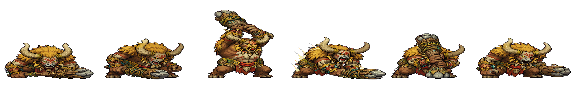
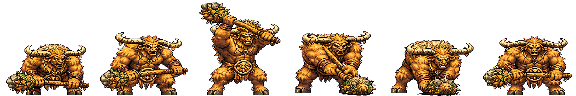
feat: GPT 재작업 대기/공격 시트 9개 통합 · 크기 보정 코드 제거
GPT가 대기/공격 시트 9종을 걷기 시트 기준으로 다시 그려 보냈다. 통합 전 검사에서
셀 크기·프레임 수·발 위치·캐릭터 크기·배경 투명도 모두 규격을 만족했고,
13개 시트를 마젠타 배경에 올려 눈으로도 확인했다.

  대기 캐릭터 크기(걷기 대비): imp 1.02 / shooter 0.99 / brute 1.00 / boss 1.16
  이전에는 0.40~0.52 였다 — 동작이 바뀌면 몬스터가 2배 넘게 커지던 원인.
  모든 프레임의 발이 셀 아래변에 닿아 공중에 뜨지 않는다.
  fire_goblin_cast_4f 에 박혀 있던 풀밭도 제거됐다.

크기 보정 코드 제거
  아트가 어긋나 있던 동안 EnemySprite 에서 시트별 실측값(캐릭터 높이·발 y)으로
  스케일과 앵커를 보정하고 있었다. 아트가 정상화된 지금은 이 보정이 오히려
  해롭다 — 공격 시트는 웅크린 자세라 캐릭터 높이가 걷기의 0.6~0.9 인데,
  높이를 기준으로 보정하면 그만큼 과하게 확대된다(자세를 크기 오류로 오판).
  단순한 셀 기준 렌더링(scale = SCALE, center = 바닥)으로 되돌렸다.
  사망 연출의 centerY 배선도 함께 정리했다.

  검증: 네 몬스터를 한 줄로 세워 위치를 고정한 뒤 이동/공격 상태를 같은
  프레임에서 캡처해 대조 — 크기 튐 없음, 공격 자세만 낮아짐(의도된 애니메이션).

tools/measure_sprites.py 를 표 생성기에서 규격 검사기로 전환
  ART 표가 없어졌으니 생성할 것도 없다. 대신 새 시트를 받았을 때 통합 전에
  돌려 규격 위반(셀 배수 / 프레임 수 / 발 뜸 / 대기-걷기 크기 불일치)을
  잡도록 바꿨다. 위반이 있으면 종료코드 1.
  발 위치 허용오차 2px — tau_chief_slam 의 1px 차이는 눈에 보이지 않는다.

Claude-Session: https://claude.ai/code/session_01JQrqj8VwghESuWCrw9YgFX

diff --git a/src/entities/EnemySprite.ts b/src/entities/EnemySprite.ts
@@ -5,80 +5,30 @@ import { ASSET, cloneTex } from '../rendering/assets'
 
 export type EnemyAnimState = 'idle' | 'walk' | 'attack'
 
-/** 시트 실측값 — tools/measure_sprites.py 로 뽑는다 */
-interface SheetMetrics {
-  /** 정사각 셀 한 변(px) */
-  cell: number
-  /** 가로 스트립 프레임 수 */
-  frames: number
-  /** 셀 안 캐릭터 높이(px, 프레임별 중앙값) */
-  bodyH: number
-  /** 셀 안 발 y좌표(px, 프레임별 중앙값) */
-  feetY: number
-}
-
 /**
- * 같은 몬스터인데도 시트마다 캐릭터가 셀 안에서 다른 크기·위치로 그려져 있다.
- * 걷기 시트는 셀을 꽉 채우고 발이 바닥에 닿지만, 대기/공격 시트는 셀 중앙에
- * 40~50% 크기로 떠 있다. 셀 기준으로 그리면 동작이 바뀔 때마다 몬스터가
- * 2배 이상 커졌다 작아지고, 공중에 뜬 채로 보인다.
- *
- * 아트를 리스케일하면 원본 픽셀 디테일이 뭉개지므로 렌더 단계에서 보정한다.
- * 시트를 교체하면 tools/measure_sprites.py 를 다시 돌려 이 표를 갱신할 것.
+ * 각 애니메이션의 프레임 수 (시트 = 가로 스트립, 정사각 셀)
+ * 시트 규격은 tools/measure_sprites.py 로 검사한다 — 셀 크기·프레임 수가 맞고
+ * 모든 프레임의 발이 셀 아래변에 닿아 있어야 이 단순한 렌더링이 성립한다.
  */
-const ART: Record<EnemyKind, Record<EnemyAnimState, SheetMetrics>> = {
-  imp: {
-    idle: { cell: 48, frames: 4, bodyH: 19, feetY: 32 },
-    walk: { cell: 48, frames: 6, bodyH: 47, feetY: 47 },
-    attack: { cell: 48, frames: 4, bodyH: 20, feetY: 33 },
-  },
-  brute: {
-    idle: { cell: 64, frames: 4, bodyH: 29, feetY: 48 },
-    walk: { cell: 64, frames: 6, bodyH: 62, feetY: 63 },
-    attack: { cell: 64, frames: 4, bodyH: 27, feetY: 50 },
-  },
-  shooter: {
-    idle: { cell: 48, frames: 4, bodyH: 19, feetY: 32 },
-    walk: { cell: 48, frames: 6, bodyH: 48, feetY: 47 },
-    attack: { cell: 48, frames: 4, bodyH: 20, feetY: 33 },
-  },
-  boss: {
-    idle: { cell: 96, frames: 4, bodyH: 42, feetY: 70 },
-    walk: { cell: 96, frames: 6, bodyH: 81, feetY: 95 },
-    attack: { cell: 96, frames: 6, bodyH: 42, feetY: 78 },
-  },
+const FRAMES: Record<EnemyKind, Record<EnemyAnimState, number>> = {
+  imp: { idle: 4, walk: 6, attack: 4 },
+  brute: { idle: 4, walk: 6, attack: 4 },
+  shooter: { idle: 4, walk: 6, attack: 4 },
+  boss: { idle: 4, walk: 6, attack: 6 },
 }
-
 const FPS: Record<EnemyAnimState, number> = { idle: 5, walk: 10, attack: 12 }
 
-/** 캐릭터(발~머리) 월드 높이 — 셀 높이가 아니라 실제 몬스터 크기 */
+/** 셀(=캐릭터) 월드 높이 */
 const SCALE: Record<EnemyKind, number> = { imp: 2.2, brute: 3.5, shooter: 2.4, boss: 5.4 }
-
-/** 시트를 셀 기준으로 그릴 때의 스프라이트 크기 (캐릭터가 SCALE 높이가 되도록 역산) */
-const spriteH = (kind: EnemyKind, s: EnemyAnimState) =>
-  SCALE[kind] * (ART[kind][s].cell / ART[kind][s].bodyH)
-
-/**
- * 스프라이트 앵커(center)를 캐릭터의 발 높이에 둔다 → 앵커를 지면에 놓으면 발이 지면에 선다.
- *
- * 월드 y로 내려서 보정하면 안 된다: 카메라가 기울어져 있어 월드 y 이동은 화면에서
- * 단축되는데, 보정해야 할 '셀 안 여백'은 스프라이트 공간(단축 없음)에 있다.
- * 두 값의 스케일이 달라 아무리 맞춰도 발이 지면에서 뜬다. center 는 스프라이트
- * 공간이라 정확히 상쇄된다.
- */
-const footCenterY = (kind: EnemyKind, s: EnemyAnimState) => {
-  const m = ART[kind][s]
-  return (m.cell - 1 - m.feetY) / m.cell
-}
 
 /**
  * 사망 연출용 스프라이트 재료 — 대기 시트의 첫 프레임 기준.
  * (시트 전체를 그대로 넘기면 프레임 4장이 가로로 눌려 나온다)
  */
-export function enemyDeathArt(kind: EnemyKind): { map: THREE.Texture; scale: number; centerY: number } {
+export function enemyDeathArt(kind: EnemyKind): { map: THREE.Texture; scale: number } {
   const map = cloneTex(ASSET.monsters[kind].idle)
-  map.repeat.set(1 / ART[kind].idle.frames, 1)
-  return { map, scale: spriteH(kind, 'idle'), centerY: footCenterY(kind, 'idle') }
+  map.repeat.set(1 / FRAMES[kind].idle, 1)
+  return { map, scale: SCALE[kind] }
 }
 export { SCALE as ENEMY_SCALE }
 
@@ -107,16 +57,17 @@ export class EnemySprite {
       attack: cloneTex(src.attack),
     }
     for (const k of ['idle', 'walk', 'attack'] as EnemyAnimState[]) {
-      this.texes[k].repeat.set(1 / ART[kind][k].frames, 1)
+      this.texes[k].repeat.set(1 / FRAMES[kind][k], 1)
     }
 
     this.mat = new THREE.SpriteMaterial({ map: this.texes.idle, transparent: true, depthWrite: false })
     this.sprite = new THREE.Sprite(this.mat)
-    this.group.add(this.sprite)
-    this.applyMetrics()
-
-    // 발밑 그림자 — 캐릭터 실제 크기 기준
+    this.sprite.center.set(0.5, 0) // 발이 셀 아래변에 있으므로 앵커도 바닥
     const sc = SCALE[kind]
+    this.sprite.scale.set(sc, sc, 1)
+    this.group.add(this.sprite)
+
+    // 발밑 그림자
     const shadowMat = noOutline(
       new THREE.MeshBasicMaterial({ color: 0x000000, transparent: true, opacity: 0.3, depthWrite: false }),
     )
@@ -125,13 +76,6 @@ export class EnemySprite {
     shadow.position.y = 0.02
     shadow.scale.set(1, 0.55, 1)
     this.group.add(shadow)
-  }
-
-  /** 현재 상태 시트에 맞춰 크기와 발 기준점을 잡는다 (시트별 캐릭터 크기·여백 차이 보정) */
-  private applyMetrics() {
-    const h = spriteH(this.kind, this.state)
-    this.sprite.scale.set(h, h, 1)
-    this.sprite.center.set(0.5, footCenterY(this.kind, this.state))
   }
 
   /** 공격 모션 재생 (지속시간 동안 attack 상태 유지) */
@@ -152,11 +96,10 @@ export class EnemySprite {
       this.time = 0
       this.mat.map = this.texes[next]
       this.mat.needsUpdate = true
-      this.applyMetrics()
     }
     this.time += dt
 
-    const n = ART[this.kind][this.state].frames
+    const n = FRAMES[this.kind][this.state]
     const idx = Math.floor(this.time * FPS[this.state]) % n
     const fw = 1 / n
     const map = this.mat.map!

diff --git a/src/systems/Effects.ts b/src/systems/Effects.ts
@@ -39,14 +39,11 @@ export class Effects {
     this.layer = uiLayer
   }
 
-  /**
-   * 적 사망 산화: 흰 섬광 → 주황 틴트로 주저앉으며 소멸
-   * @param centerY 시트 안 캐릭터의 발 높이(스프라이트 공간 0..1) — 앵커를 발에 둔다
-   */
-  deathDissolve(pos: THREE.Vector3, map: THREE.Texture, scale: number, centerY = 0) {
+  /** 적 사망 산화: 흰 섬광 → 주황 틴트로 주저앉으며 소멸 */
+  deathDissolve(pos: THREE.Vector3, map: THREE.Texture, scale: number) {
     const mat = new THREE.SpriteMaterial({ map, transparent: true, depthWrite: false })
     const sp = new THREE.Sprite(mat)
-    sp.center.set(0.5, centerY)
+    sp.center.set(0.5, 0)
     sp.scale.set(scale, scale, 1)
     sp.position.set(pos.x, 0.02, pos.z)
     this.scene.add(sp)

diff --git a/src/core/Game.ts b/src/core/Game.ts
@@ -887,7 +887,7 @@ export class Game {
     this.scene.remove(e.group)
     this.kills++
     const death = enemyDeathArt(e.kind)
-    this.effects.deathDissolve(e.pos, death.map, death.scale, death.centerY)
+    this.effects.deathDissolve(e.pos, death.map, death.scale)
     this.effects.playFx('death', e.pos.x, 1.0, e.pos.z, ENEMY_SCALE[e.kind] * 1.3)
 
     // 경험치 + 골드 드랍

diff --git a/tools/measure_sprites.py b/tools/measure_sprites.py
@@ -1,19 +1,20 @@
 #!/usr/bin/env python3
-"""몬스터 시트의 실측값을 뽑아 EnemySprite.ts 의 ART 표를 생성한다.
+"""몬스터 시트 규격 검사기.
 
-왜 필요한가:
-  같은 몬스터의 대기/걷기/공격 시트가 셀 안에서 서로 다른 크기로 그려져 왔다.
-  (걷기는 셀을 꽉 채우고 발이 바닥에 닿는데, 대기/공격은 셀 중앙에 작게 떠 있음)
-  스프라이트를 셀 기준으로 그리면 동작이 바뀔 때마다 몬스터 크기가 튀고 공중에 뜬다.
+EnemySprite.ts 의 렌더링은 시트가 아래 규격을 지킨다는 전제로 단순하게 짜여 있다.
+새 시트를 받으면 통합 전에 이걸 먼저 돌려 규격 위반을 잡는다.
 
-  아트를 리스케일하면 원본 디테일이 뭉개지므로, 대신 시트별 실측값
-  (셀 안 캐릭터 높이 / 발 y좌표) 을 코드에 넘겨 렌더 단계에서 보정한다.
+  1. 가로 스트립, 정사각 셀 (가로 = 셀 x 프레임수)
+  2. 셀 크기·프레임 수가 EnemySprite.ts 의 FRAMES 와 일치
+  3. 모든 프레임의 발(=최하단 불투명 픽셀)이 셀 아래변에 닿음
+     -> 안 지키면 몬스터가 공중에 뜬다
+  4. 같은 몬스터의 대기/걷기 캐릭터 높이가 비슷함 (비율 0.85~1.2)
+     -> 안 지키면 동작이 바뀔 때 몬스터 크기가 튄다
+     (공격은 웅크리는 자세가 많아 낮게 나오는 것이 정상이므로 경고만)
 
 사용법:
-  python3 tools/measure_sprites.py          # 표 출력
-  python3 tools/measure_sprites.py --check  # 현재 TS 표와 불일치 시 종료코드 1
-
-새 시트를 받으면 이걸 다시 돌려 EnemySprite.ts 의 ART 를 갱신하면 된다.
+  python3 tools/measure_sprites.py          # 검사 결과 출력
+  종료코드 0 = 통과, 1 = 위반 있음
 """
 import sys
 from statistics import median
@@ -21,28 +22,37 @@ from PIL import Image
 
 ROOT = 'public/assets/stage1'
 
-# kind -> (디렉터리, idle, walk, attack)
+# kind -> (디렉터리, [(상태, 파일명, 기대 프레임수)])
 MON = {
-    'imp':     ('stage1_goblins', 'melee_goblin_idle_4f', 'melee_goblin_walk_6f', 'melee_goblin_club_attack_4f'),
-    'brute':   ('stage1_tau',     'tau_warrior_idle_4f',  'tau_warrior_walk_6f',  'tau_warrior_slam_4f'),
-    'shooter': ('stage1_goblins', 'fire_goblin_idle_4f',  'fire_goblin_walk_6f',  'fire_goblin_cast_4f'),
-    'boss':    ('stage1_tau',     'tau_chief_idle_4f',    'tau_chief_move_6f',    'tau_chief_slam_6f'),
+    'imp': ('stage1_goblins', [
+        ('idle', 'melee_goblin_idle_4f', 4),
+        ('walk', 'melee_goblin_walk_6f', 6),
+        ('attack', 'melee_goblin_club_attack_4f', 4),
+    ]),
+    'shooter': ('stage1_goblins', [
+        ('idle', 'fire_goblin_idle_4f', 4),
+        ('walk', 'fire_goblin_walk_6f', 6),
+        ('attack', 'fire_goblin_cast_4f', 4),
+    ]),
+    'brute': ('stage1_tau', [
+        ('idle', 'tau_warrior_idle_4f', 4),
+        ('walk', 'tau_warrior_walk_6f', 6),
+        ('attack', 'tau_warrior_slam_4f', 4),
+    ]),
+    'boss': ('stage1_tau', [
+        ('idle', 'tau_chief_idle_4f', 4),
+        ('walk', 'tau_chief_move_6f', 6),
+        ('attack', 'tau_chief_slam_6f', 6),
+    ]),
 }
 
 
 def measure(path):
-    """(셀 크기, 프레임 수, 대표 캐릭터 높이, 대표 발 y) — 프레임별 중앙값 기준.
-
-    중앙값을 쓰는 이유: 웅크림·도약처럼 프레임마다 키가 달라지는 것은 애니메이션
-    자체이므로 유지해야 한다. 시트 전체에 단일 보정값만 적용한다.
-    """
     im = Image.open(path).convert('RGBA')
     w, h = im.size
-    cell = h                      # 정사각 셀 전제 (가로 스트립)
-    if w % cell:
-        raise SystemExit(f'{path}: 가로 {w} 가 셀 {cell} 의 배수가 아니다')
-    n = w // cell
+    cell = h
     px = im.load()
+    n = w // cell if cell else 0
     heights, feet = [], []
     for i in range(n):
         x0 = i * cell
@@ -55,30 +65,56 @@ def measure(path):
         if top is not None:
             heights.append(bot - top + 1)
             feet.append(bot)
-    return cell, n, int(median(heights)), int(median(feet))
+    return dict(w=w, h=h, cell=cell, frames=n, heights=heights, feet=feet)
 
 
-rows = []
-for kind, (d, idle, walk, atk) in MON.items():
-    entry = {}
-    for state, name in (('idle', idle), ('walk', walk), ('attack', atk)):
-        cell, n, bh, fy = measure(f'{ROOT}/{d}/{name}.png')
-        entry[state] = dict(cell=cell, frames=n, bodyH=bh, feetY=fy)
-    rows.append((kind, entry))
+FEET_TOL = 2  # 발 위치 허용오차(px) — 1~2px 차이는 눈에 보이지 않는다
 
-print('// tools/measure_sprites.py 로 생성 — 시트를 교체하면 다시 돌려 갱신할 것')
-print('const ART: Record<EnemyKind, Record<EnemyAnimState, SheetMetrics>> = {')
-for kind, e in rows:
-    print(f'  {kind}: {{')
-    for state in ('idle', 'walk', 'attack'):
-        m = e[state]
-        print(f'    {state}: {{ cell: {m["cell"]}, frames: {m["frames"]}, '
-              f'bodyH: {m["bodyH"]}, feetY: {m["feetY"]} }},')
-    print('  },')
-print('}')
+errors, warnings = [], []
+print(f'{"kind":9} {"state":7} {"size":>10} {"cell":>5} {"frames":>7} {"bodyH(med)":>11} {"ratio":>6}')
+print('-' * 64)
 
-print('\n// 참고: 상태 간 캐릭터 높이 비율 (1.0에서 멀면 크기가 튄다)', file=sys.stderr)
-for kind, e in rows:
-    ref = e['walk']['bodyH'] / e['walk']['cell']
-    ratios = {s: round((e[s]['bodyH'] / e[s]['cell']) / ref, 2) for s in ('idle', 'walk', 'attack')}
-    print(f'//   {kind:8} {ratios}', file=sys.stderr)
+for kind, (d, sheets) in MON.items():
+    # 걷기를 기준으로 삼으므로 먼저 전부 측정한 뒤 비교한다
+    got = {}
+    for state, name, want_frames in sheets:
+        try:
+            got[state] = (name, want_frames, measure(f'{ROOT}/{d}/{name}.png'))
+        except FileNotFoundError:
+            errors.append(f'{name}: 파일 없음')
+
+    if 'walk' not in got:
+        continue
+    wm = got['walk'][2]
+    ref = (median(wm['heights']) / wm['cell']) if wm['heights'] else 0
+
+    for state, name, want_frames in sheets:
+        if state not in got:
+            continue
+        _, want_frames, m = got[state]
+        bh = median(m['heights']) if m['heights'] else 0
+        ratio = (bh / m['cell']) / ref if ref else float('nan')
+        size = '{}x{}'.format(m['w'], m['h'])
+        print(f'{kind:9} {state:7} {size:>10} {m["cell"]:>5} '
+              f'{m["frames"]:>7} {bh:>11.0f} {ratio:>6.2f}')
+
+        if m['w'] % m['cell']:
+            errors.append(f'{name}: 가로 {m["w"]} 가 셀 {m["cell"]} 의 배수가 아님')
+        if m['frames'] != want_frames:
+            errors.append(f'{name}: 프레임 {m["frames"]}개 (기대 {want_frames}개)')
+        bad = [(i, f) for i, f in enumerate(m['feet']) if m['cell'] - 1 - f > FEET_TOL]
+        if bad:
+            errors.append(f'{name}: 발이 셀 바닥에서 뜬 프레임 {[i for i, _ in bad]} '
+                          f'(발y={[f for _, f in bad]}, 기대 {m["cell"] - 1})')
+        if state == 'idle' and not (0.85 <= ratio <= 1.2):
+            errors.append(f'{name}: 대기 캐릭터 크기가 걷기의 {ratio:.2f}배 (0.85~1.2 이어야 함)')
+        if state == 'attack' and not (0.5 <= ratio <= 1.2):
+            warnings.append(f'{name}: 공격 캐릭터 크기가 걷기의 {ratio:.2f}배 — 자세 때문인지 확인')
+    print()
+
+for w in warnings:
+    print(f'경고: {w}')
+for e in errors:
+    print(f'위반: {e}')
+print(f'\n{"통과" if not errors else f"위반 {len(errors)}건"}')
+sys.exit(1 if errors else 0)
